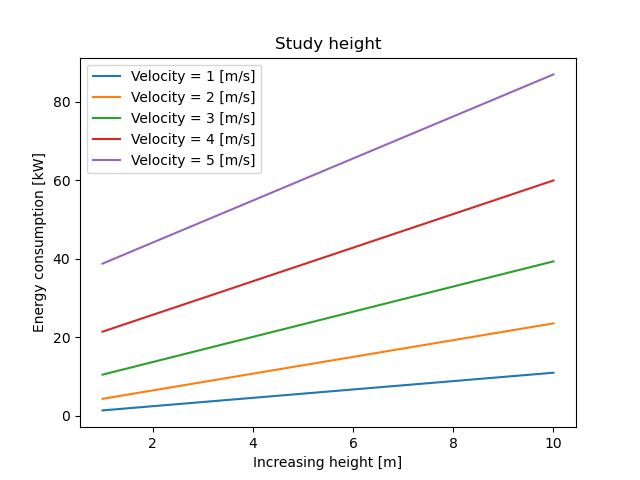
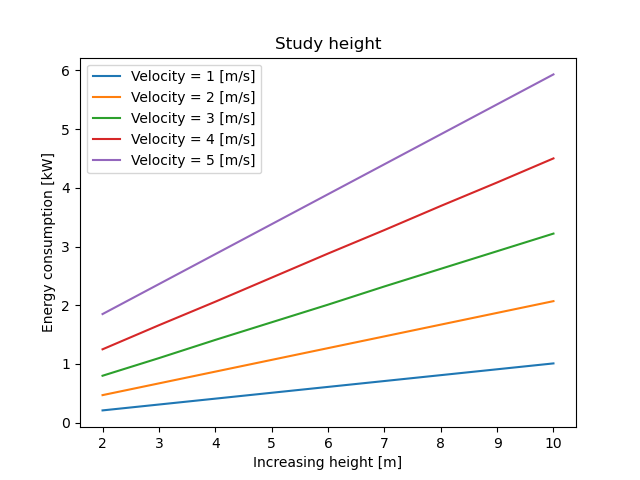
Added csv as format. Added Reynold warning. Can be disabled.

diff --git a/module/page_generator.py b/module/page_generator.py
@@ -77,8 +77,14 @@ class HTMLSerializer:
         core_attributes = study.circuit_performance(circuit)
 
         title = self._serialize_message("h3", f"Core attributes of circuit with velocity of {velocity} [m/s]")
-        body = self._serialize_message("li", f"Reynolds number = {round(core_attributes[0])}")
-        body += self._serialize_message("li", f"Flow = {round(core_attributes[1], 4)} [m3/s]")
+        warning = ""
+        if core_attributes[0] > 10**5:
+            warning = "(Reynolds number exceeding 10^5. Flow calculation may not be precise)"
+        body = self._serialize_message("li", f"Reynolds number = {round(core_attributes[0])} {warning}")
+        flow_type = "Turbulent"
+        if core_attributes[0] < 2300:
+            flow_type = "Laminar"
+        body += self._serialize_message("li", f"{flow_type} flow = {round(core_attributes[1], 4)} [m3/s]")
         body += self._serialize_message("li", f"Pressure losses due to height of circuit = {round(core_attributes[2])}"
                                               f" [N/m2]")
         body += self._serialize_message("li", f"Pressure losses due to friction in parts = "
@@ -155,7 +161,7 @@ class HTMLPageGenerator:
         self.study = stdy.Study()
         self.path = pf.PathFinder.get_folder_path("templates")
 
-    def default_page_generation(self, circuit, base_velocity=5, velocity_range=(1, 5, 1), diameter_range=(0.1, 1, 10),
+    def default_page_generation(self, circuit, base_velocity=5, velocity_range=(1, 6, 1), diameter_range=(0.1, 1, 10),
                                 efficiency_range=(0.1, 1, 10), height_range=(1, 10, 9)):
 
         self.export_circuit_study_in_HTML(circuit, "study-template.html", "study.html", base_velocity, velocity_range,

diff --git a/module/study_.py b/module/study_.py
@@ -21,7 +21,7 @@ class Study:
 
     def png_generator_plot(self, circuit: cir.Circuit, velocity_range, diameter_range, efficiency_range, height_range):
         file_names = ("Inside diameter study.png", "Efficiency study.png", "Height study.png")
-        for i in range(velocity_range[0], velocity_range[1], velocity_range[2]):
+        for i in np.arange(velocity_range[0], velocity_range[1], velocity_range[2]):
             self.velocity_of_medium = i
             plt.figure(0)
             self.plot_changing_type(circuit, "inside_diameter", file_names[0], start=diameter_range[0],
@@ -152,7 +152,7 @@ class Study:
             for part in circuit.canvas:
                 if isinstance(part, cir.PipeStraight):
                     if part.angle > 0:
-                        if part.length < delta:
+                        if part.length <= delta:
                             length_allowed_to_remove = part.length - 1
                             part.length -= length_allowed_to_remove
                             delta -= length_allowed_to_remove
@@ -160,7 +160,8 @@ class Study:
                             part.length -= delta
                             circuit.height = None
                             return circuit.height
-            raise Exception(f"Not allowed to remove {height} from {circuit}")
+            raise Exception(f"Not allowed to set height of {circuit} to {height}. Height of circuit must be the sum"
+                            f" of vertical pipes.")
 
         elif circuit.height < height:
             pipe = cir.PipeStraight("Added_pipe", circuit.inside_diameter, delta, 90)

diff --git a/module/circuit_calculator.py b/module/circuit_calculator.py
@@ -1,4 +1,5 @@
 import math
+import warnings
 import module.circuit as cir
 
 
@@ -32,6 +33,8 @@ class CircuitFormulas:
 
     @staticmethod
     def calculate_flow_coefficient(reynolds_number: float) -> float:
+        if reynolds_number > 10**5:
+            warnings.warn("Reynolds number exceeding 10^5")
         if reynolds_number < 2300:
             return 64 / reynolds_number
         else:
@@ -106,8 +109,9 @@ class CircuitCalculator:
                                                                            self.DENSITY_OF_SEAWATER)
 
     def calculate_reynolds_number(self, circuit):
-        return self.circuit_formulas.calculate_reynolds_number(self._velocity_of_medium, circuit.inside_diameter
-                                                               , self.KINEMATIC_VISCOSITY_OF_SEAWATER)
+        return self.circuit_formulas.calculate_reynolds_number(self._velocity_of_medium,
+                                                                circuit.inside_diameter,
+                                                                self.KINEMATIC_VISCOSITY_OF_SEAWATER)
 
     def calculate_theoretical_energy_for_circuit(self, circuit: cir.Circuit):
         delta_height, delta_frictions, flow = self.calculate_core_attributes(circuit)

diff --git a/main.py b/main.py
@@ -13,9 +13,16 @@ def default_circuit_study():
     # Define circuit origin file.
     file_name = "task_circuit.tsv"
 
+    format_ = file_name.split(".")
+    format_ = format_[-1]
+
     # Create circuit class instance
     # The parse function takes in file format and
-    circuit = parser.parse(file_name, "tsv", False)
+    circuit = parser.parse(file_name, format_, False)
+
+    # You can change circuit attributes here before the check
+    # ex:
+    # circuit.inside_diameter = 0.1
 
     try:
         circ.CircuitControl.control_circuit(circuit)
@@ -25,7 +32,12 @@ def default_circuit_study():
 
     else:
         # Generate page with default template and store_location
-        page_generator.default_page_generation(circuit)
+        # Set the height range if your circuit has more than one vertical pipe.
+
+        # ex:
+        # page_generator.default_page_generation(circuit, height_range=(2, 10, 9), velocity_range=(0.1, 2.0, 0.1))
+
+        page_generator.default_page_generation(circuit, height_range=(2, 10, 9))
 
         while True:
             open_file_query = input("Do you want to open the study?[y / n]")

diff --git a/module/parts.py b/module/parts.py
@@ -41,7 +41,7 @@ class Part:
         object_created = globals()[object_name].initialize_with_args(*args)
         return object_created
 
-    def calculate_losses_of_pressure(self, density_of_medium: int, velocity_of_medium: int, flow_coefficient: float):
+    def calculate_losses_of_pressure(self, density_of_medium: int, velocity_of_medium, flow_coefficient: float):
         """Default calculation of losses of pressure, to be overwritten by functions with special cases.
 
         :param density_of_medium: Density of the medium where pressure is calculated.
@@ -132,7 +132,7 @@ class PipeStraight(Pipe):
             raise Exception(f"Length has to be 1 or more, tried to set to {value}")
         self._length = value
 
-    def calculate_losses_of_pressure(self, density_of_medium: int, velocity_of_medium: int, flow_coefficient: int):
+    def calculate_losses_of_pressure(self, density_of_medium: int, velocity_of_medium, flow_coefficient: int):
         return flow_coefficient * (1 / self.inside_diameter) * (density_of_medium / 2) * velocity_of_medium
 
     @classmethod

diff --git a/module/parsers.py b/module/parsers.py
@@ -48,6 +48,9 @@ class Parser:
                 return self._tsv_parser(file_source, circuit)
             elif format_ == "xml":
                 return self._xml_parser(file_source, circuit)
+            elif format_ == "csv":
+                self.separator = ","
+                return self._tsv_parser(file_source, circuit)
             else:
                 raise Exception("Invalid format")
 

diff --git a/README.rst b/README.rst
@@ -8,7 +8,7 @@ Pumping circuits is a program which provides design, troubleshooting and analysi
 
 Getting Started
 ===============
-This Python program requires at least python 3.7.
+This Python program requires at least python 3.5.
 
 Features
 --------
@@ -22,13 +22,13 @@ Features
 * Calculate the energy consumption for these circuits
 * HTML study generation with adaptability for different use cases
 * Validate circuits validity in a 2D-plane
-* Testing with near 100% coverage
+* Testing with near 100% line coverage
 
 Assumptions
 ------------
 * Pipes can have a length of no shorter than 1 m. To change this change set function for PipeStraight.
 * While the program requires pipes with the angles 0 and 90,
-  it is possible to adapt for pipes with angles between requires only small changes.
+  it is possible to adapt for pipes with angles between with some adaptations.
 
 
 Usage
@@ -55,8 +55,6 @@ This program tries to conform to several "good practises" following the followin
 
 Because these where applied some time into the development of this program, and the resource cost of
 refactoring one might find parts that do not adhere to these principles.
-
-Most big functionality, which is not private should be documented in their docstrings.
 
 General conventions
 --------------------
@@ -92,7 +90,7 @@ run purely by user input the other is run by editing the function and running it
 
 Custom ranges and velocities
 can be set here as well. By altering the default function one can input custom ranges if specific velocity studies need
-to be calculated. In addition one can set ranges for the plot studies if the ranges dont fit the desired purpose.
+to be calculated. In addition one can set ranges for the plot-studies if the ranges dont fit the desired purpose.
 
 For example:
 
@@ -102,7 +100,7 @@ For example:
                                                        efficiency_range=(0.1, 1, 90), velocity_range=(1, 10, 1),
                                                        diameter_range=(0.1, 1, 10))
 
-Remember, pipes have a minimum length of 1 m. That means that the height range cant be lower than the amount of
+Remember, pipes have a minimum length of 1 m. This means that the height range cant be lower than the amount of
 vertical pipes. ``velocity_range`` works is a regular for loop range, the others have a different step type. The last
 argument is the amount of steps and not the step size. ``base_velocity`` is used for calculating the core attributes.
 
@@ -110,8 +108,8 @@ This method can also be used for ``page_generator.export_circuit_study_in_HTML()
 
 parts.py
 ~~~~~~~~
-This module contains the parts of the circuit. The ``class Part`` is abstract class for all other parts used. It
-contains a name which is a property shared by all parts, used with ``Part.name``.
+This module contains the parts of the circuit. The class ``Part`` is abstract class for all other parts used. It
+contains a name which is a property shared by all parts, accessed with ``Part.name``.
 
 It also contains two different
 `factory methods <https://en.wikipedia.org/wiki/Factory_(object-oriented_programming)>`_, which use arguments or
@@ -134,10 +132,10 @@ return the objects specific zeta value. While it would be preferred to contain t
 
 circuit.py
 ~~~~~~~~~~
-Overall class representing a circuit. ``canvas`` is its most important variable. This contains a chronological list of
+Overall class representing a circuit. ``canvas`` is its central variable. This contains a chronological list of
 parts. Items in the canvas can be accessed through ``some_circuit[index]``.
 
-Circuit can, as previously mentioned be used in a context where one can alter it and then it reverts back when leaving
+Circuit can, as previously mentioned, be used in a context where one can alter it and then it reverts back when leaving
 the context. This is useful in *study_.py* because here we want to alter a circuit do some studies and then return
 the original for final alterations.
 
@@ -154,7 +152,7 @@ parser.py
 ~~~~~~~~~
 This file contains parser class which can be used for parsing different file types. It should be used by calling
 its member function ``parse`` which uses *file_handler.py* and *path_finder.py* as well as the package ElementTree to
-parse both tsv and xml formats.
+parse tsv, csv and xml formats.
 
 circuit_control.py
 ~~~~~~~~~~~~~~~~~~
@@ -201,7 +199,7 @@ To use this feature one has to:
 
 Testing during this projects development is done using, as mentioned earlier, the packages **unittest** as well as
 **coverage**. Coverages gives the developer an overview of what lines of code has been run. The tests developed have
-tried to give 100% coverage to ensure that all lines have been tested and gives the expected response.
+tried to provide 100% line coverage to ensure that all lines have been tested and gives the expected response.
 
 Testing has also been done with coverage, and a report has been generated showing what lines have been tested and which
 have not been tested with the current method. All necessary tests have been run, but are not included in tests.
